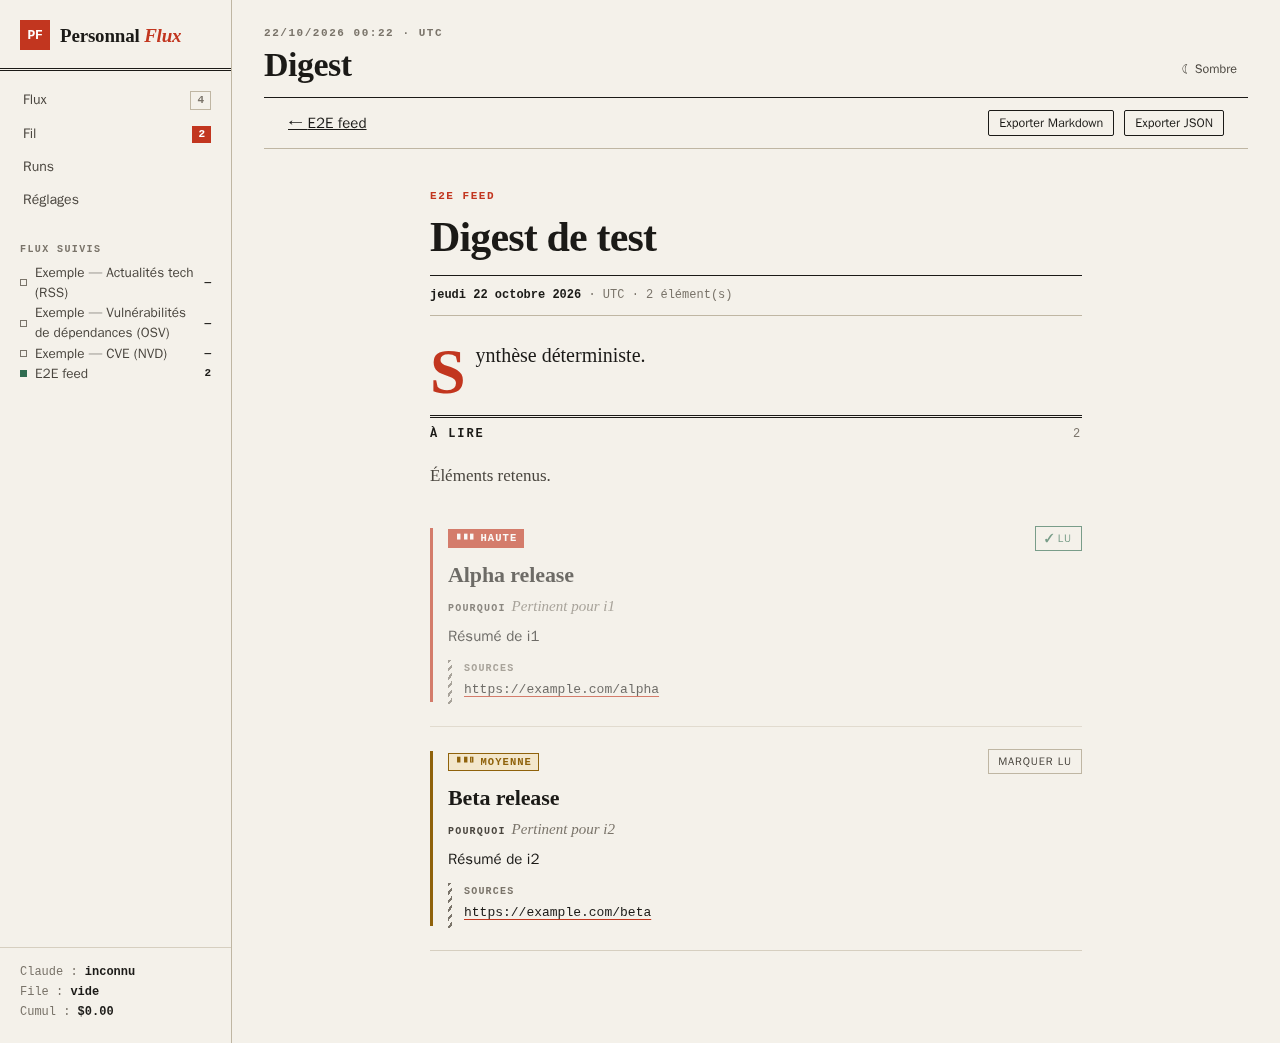
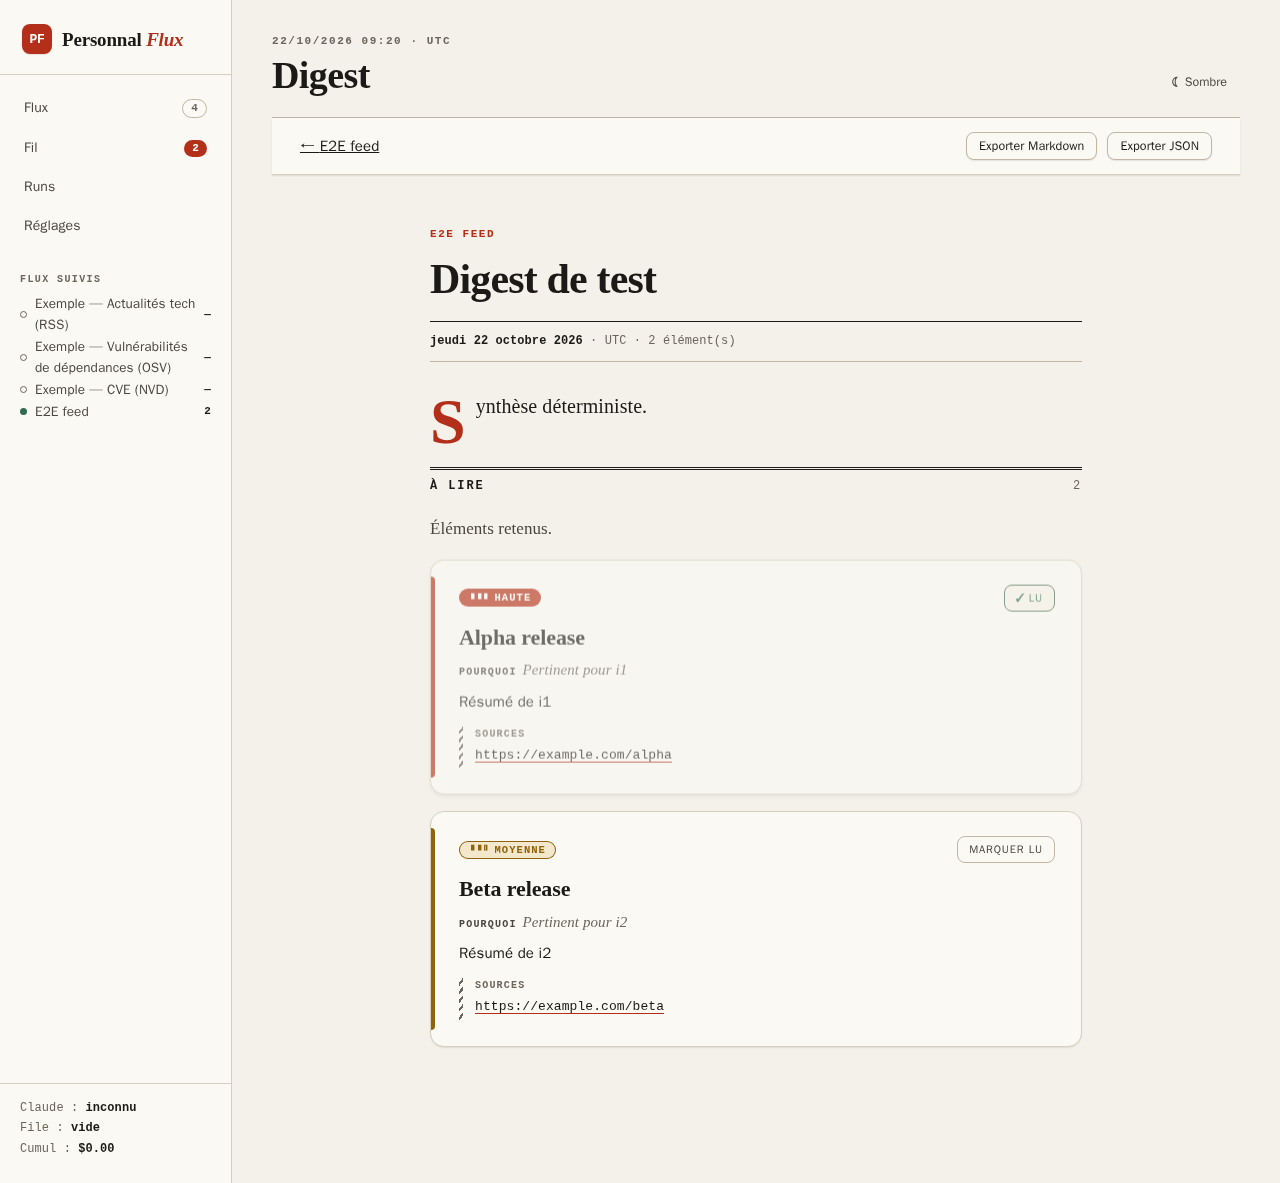
feat(t31): modernize global UI styling (radii, shadows, tokens, states)

diff --git a/web/src/styles/app.css b/web/src/styles/app.css
@@ -328,3 +328,120 @@ table.runs tbody tr:hover{background:var(--sunken)}
 .feed{transition:background .12s}
 .feed:hover{background:var(--sunken)}
 .btn[aria-busy="true"]{opacity:.7;cursor:progress}
+
+/* ============ REFRESH T31 : rayons, ombres, espacements, états ============ */
+body{font:15px/1.6 var(--sans);letter-spacing:.005em}
+.main{padding:36px 40px 48px}
+.mast{padding-bottom:20px;border-bottom-color:var(--rule-2)}
+.mast h2{font-size:38px;line-height:1.1;font-weight:700}
+.side{padding:24px 0;background:var(--card);border-right-color:var(--rule)}
+.brand{border-bottom:1px solid var(--rule);padding:0 22px 20px}
+.mark{border-radius:var(--r-sm);box-shadow:var(--sh-1)}
+.nav{gap:2px;padding:14px 12px}
+.nav a{border-left:0;border-radius:var(--r-sm);padding:10px 12px;transition:background var(--ease),color var(--ease)}
+.nav a:hover{background:var(--sunken);color:var(--ink)}
+.nav a:active{background:var(--rule)}
+.nav a.on{background:var(--red-bg);color:var(--red);box-shadow:inset 3px 0 0 var(--red)}
+.count{border-radius:999px;padding:3px 8px}
+.dot{border-radius:50%}
+.feedlist li a{border-radius:var(--r-sm);transition:background var(--ease)}
+.feedlist li a:hover{background:var(--sunken)}
+
+/* boutons */
+.btn{border-radius:var(--r-sm);padding:10px 16px;border-color:var(--rule-2);background:var(--card);box-shadow:var(--sh-1);font-weight:600;transition:background var(--ease),color var(--ease),border-color var(--ease),box-shadow var(--ease),transform var(--ease)}
+.btn:hover{background:var(--sunken);border-color:var(--ink-3);box-shadow:var(--sh-2)}
+.btn:active:not([disabled]){transform:translateY(1px);box-shadow:none}
+.btn.primary{background:var(--ink);border-color:var(--ink);color:var(--on-ink)}
+.btn.primary:hover{background:var(--red);border-color:var(--red);color:#fff}
+.btn.danger{border-color:var(--red)}
+.btn.danger:hover{background:var(--red-bg)}
+.btn.ghost{background:transparent;box-shadow:none}
+.btn.ghost:hover{background:var(--sunken);border-color:transparent}
+.btn.sm{padding:7px 12px}
+.btn:focus-visible,a:focus-visible,button:focus-visible,input:focus-visible,select:focus-visible,textarea:focus-visible,summary:focus-visible{outline:2px solid var(--accent);outline-offset:2px;border-radius:var(--r-sm)}
+.seg{border:1px solid var(--rule-2);border-radius:var(--r-sm);overflow:hidden;background:var(--card);box-shadow:var(--sh-1)}
+.seg a,.seg button{transition:background var(--ease),color var(--ease)}
+.seg a:hover{background:var(--sunken)}
+.seg a+a{border-left-color:var(--rule-2)}
+.seg a.on{background:var(--ink);color:var(--on-ink)}
+.readbtn{border-radius:var(--r-sm);padding:7px 11px;transition:background var(--ease),border-color var(--ease)}
+.readbtn:hover{background:var(--sunken);border-color:var(--ink-3)}
+.readbtn:active{transform:translateY(1px)}
+
+/* champs */
+.input,textarea.input,select.input{border:1px solid var(--rule-2);border-radius:var(--r-sm);padding:10px 12px;box-shadow:var(--sh-1) inset;transition:border-color var(--ease),box-shadow var(--ease)}
+.input:hover{border-color:var(--ink-3)}
+.input:focus,.input:focus-visible{border-color:var(--accent);box-shadow:0 0 0 3px var(--red-bg)}
+.input.bad{border-color:var(--red)}
+.field{margin-bottom:24px}
+.srcpick{border-radius:var(--r-md);overflow:hidden;border-color:var(--rule-2);box-shadow:var(--sh-1)}
+.srcpick div{padding:14px 16px;transition:background var(--ease)}
+.srcpick div:hover{background:var(--sunken)}
+.srcpick div+div{border-left-color:var(--rule-2)}
+.srcpick .on:hover{background:var(--ink)}
+.toggle i{border-radius:999px;transition:background var(--ease)}
+.toggle i::after{border-radius:50%}
+.secret{border-radius:var(--r-sm)}
+
+/* badges, puces */
+.stamp{border-radius:999px;padding:4px 9px}
+.prio{border-radius:999px;padding:4px 10px;transition:box-shadow var(--ease)}
+.p-med,.p-low{box-shadow:inset 0 0 0 1px currentColor}
+.chips span{border-radius:999px;padding:5px 10px;transition:background var(--ease),border-color var(--ease)}
+.chips span:hover{background:var(--sunken);border-color:var(--ink-3)}
+.minitape,.minitape i,.gauge,.gauge i{border-radius:3px}
+
+/* cartes */
+.feeds{display:grid;grid-template-columns:repeat(2,minmax(0,1fr));gap:20px;border-top:0;background:transparent;margin-top:28px}
+.feed{padding:24px 26px 22px;gap:14px;background:var(--card);border:1px solid var(--rule);border-radius:var(--r-lg);box-shadow:var(--sh-1);transition:box-shadow var(--ease),transform var(--ease),border-color var(--ease),background var(--ease)}
+.feed:nth-child(odd){border-right:1px solid var(--rule)}
+.feed:hover{background:var(--card);box-shadow:var(--sh-2);transform:translateY(-2px);border-color:var(--rule-2)}
+.feed.paused{background:var(--sunken)}
+.feed.paused:hover{background:var(--sunken)}
+.feed .unread{right:26px;top:20px}
+.tape{border-radius:var(--r-lg);border:1px solid var(--rule);box-shadow:var(--sh-1);padding:22px 18px;margin:26px 0}
+.tape::before,.tape::after{display:none}
+.tape ol{gap:8px}
+.tape li{border-radius:var(--r-sm)}
+.tape li+li{border-left:1px solid var(--ink)}
+.tape .todo{border-color:var(--rule-2)}
+.tape .done{border-color:var(--ink)}
+.stats{border:1px solid var(--rule);border-radius:var(--r-lg);background:var(--card);box-shadow:var(--sh-1)}
+.stats div{padding:16px 18px}
+.log{border-radius:var(--r-md);padding:14px 0}
+.states{border-radius:var(--r-lg);box-shadow:var(--sh-1);overflow:hidden;border-color:var(--rule)}
+:not(.states)>.state{border-radius:var(--r-lg)}
+.err-box{border-radius:var(--r-md)}
+.banner{border-radius:var(--r-md);padding:14px 18px}
+.help{border-radius:var(--r-lg);border:1px solid var(--rule);border-top:3px solid var(--accent);box-shadow:var(--sh-1);padding:22px}
+.term{border-radius:var(--r-md);overflow:hidden}
+.console-host{border-radius:var(--r-md)}
+.note{border-radius:0 var(--r-sm) var(--r-sm) 0}
+.dialog{border:1px solid var(--rule);border-radius:var(--r-lg);box-shadow:var(--sh-3);padding:28px}
+.login-card{border:1px solid var(--rule);border-radius:var(--r-lg);box-shadow:var(--sh-3);padding:32px}
+table.runs td,table.runs th{padding:11px 12px}
+table.runs tbody tr:hover{background:var(--sunken)}
+
+/* fil */
+.wire li{padding:16px 10px;border-radius:var(--r-sm);transition:background var(--ease)}
+.wire li:hover{background:var(--sunken)}
+.wire .u,.wire .r{border-radius:50%}
+
+/* digest */
+.readbar{padding:14px 28px;background:var(--card);box-shadow:var(--sh-1);border-bottom-color:var(--rule)}
+.article{padding:52px 24px 72px}
+.article h1{font-weight:700;line-height:1.12;margin:14px 0 18px}
+.lede{margin:28px 0 12px;line-height:1.65}
+.sbody{line-height:1.75}
+.item{margin:16px 0;padding:24px 26px 24px 28px;background:var(--card);border:1px solid var(--rule);border-radius:var(--r-lg);box-shadow:var(--sh-1);transition:box-shadow var(--ease),transform var(--ease)}
+.item:hover{box-shadow:var(--sh-2);transform:translateY(-1px)}
+.item::before{left:0;top:16px;bottom:16px;width:4px;border-radius:0 4px 4px 0}
+.item h3{margin:12px 0 8px}
+.sources a{transition:color var(--ease)}
+
+@media (max-width:860px){
+  .main{padding:22px 16px 32px}
+  .feeds{grid-template-columns:1fr}
+  .nav a.on{box-shadow:inset 0 -3px 0 var(--red)}
+  .tape li+li{border-top:1px solid var(--ink)}
+}

diff --git a/web/src/styles/tokens.css b/web/src/styles/tokens.css
@@ -1,7 +1,7 @@
 :root{
-  --paper:#F4F1EA; --sunken:#ECE7DC; --card:#FBF9F4; --ink:#1B1A17; --ink-2:#4A463F; --ink-3:#7A746A;
+  --paper:#F4F1EA; --sunken:#ECE7DC; --card:#FBF9F4; --ink:#1B1A17; --ink-2:#4A463F; --ink-3:#6B655B;
   --rule:#D6CFC0; --rule-2:#BFB6A3;
-  --red:#C2361F; --red-2:#D4513B; --red-bg:#F6E2DC;
+  --red:#B42F19; --red-2:#D4513B; --red-bg:#F6E2DC;
   --ochre:#8F620B; --ochre-bg:#F3E7CC;
   --graphite:#5F636A; --graphite-bg:#E6E3DC;
   --green:#2F6B4F; --green-bg:#DCEBE1;
@@ -23,3 +23,15 @@
 }
 :root{color-scheme:light}
 .dark{color-scheme:dark}
+:root{
+  --r-sm:8px; --r-md:10px; --r-lg:14px;
+  --sh-1:0 1px 2px rgba(40,30,10,.06),0 1px 1px rgba(40,30,10,.04);
+  --sh-2:0 2px 6px rgba(40,30,10,.07),0 6px 16px rgba(40,30,10,.06);
+  --sh-3:0 4px 12px rgba(40,30,10,.09),0 16px 40px rgba(40,30,10,.12);
+  --accent:var(--red); --ease:140ms ease;
+}
+.dark{
+  --sh-1:0 1px 2px rgba(0,0,0,.4);
+  --sh-2:0 2px 8px rgba(0,0,0,.4),0 6px 18px rgba(0,0,0,.3);
+  --sh-3:0 4px 14px rgba(0,0,0,.5),0 18px 44px rgba(0,0,0,.45);
+}

diff --git a/docs/PROGRESS.md b/docs/PROGRESS.md
@@ -51,3 +51,4 @@
 - 2026-10-22T00:11:57.853Z — T30 terminé (Livrable: Dockerfile, compose, CI exemple, README et documents de transparence)
 - fix(F7): added POST /api/items/read-all ({feedId?, priority?}); StreamPage passes active priority filter.
 - 2026-10-22T00:22:14.496Z — vérification finale OK — prêt à déployer
+- 2026-10-22 — T31: refonte visuelle (rayons 8–14 px, ombres multi-niveaux, palette/typo affinées, états hover/focus/active, survol des cartes) dans web/src/styles/{tokens,app}.css. Aucun changement de contrat.
